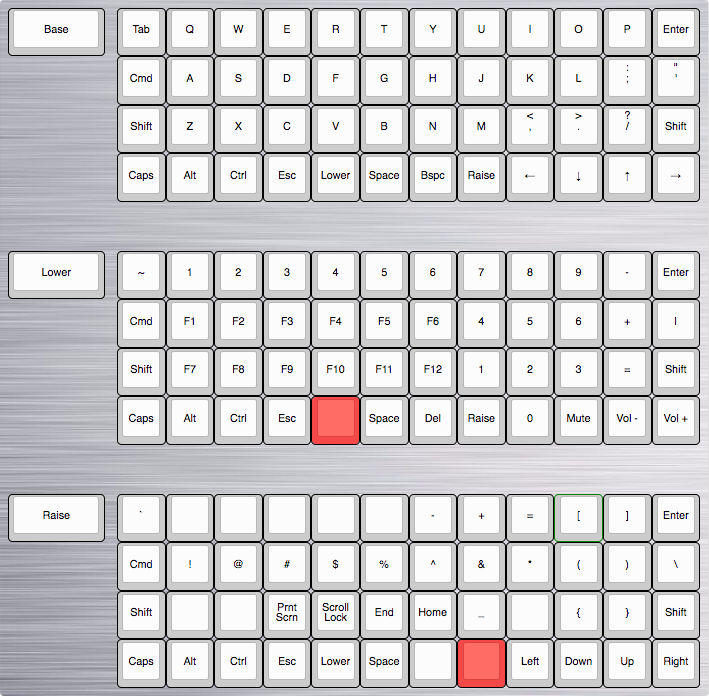
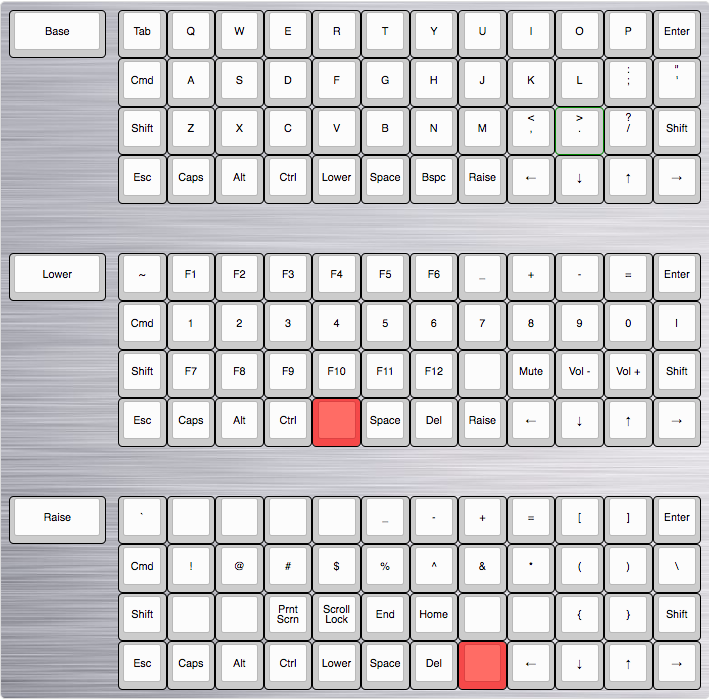
Revise Lets Split layout

diff --git a/keyboards/lets_split/keymaps/custom_mac/keymap.c b/keyboards/lets_split/keymaps/custom_mac/keymap.c
@@ -31,10 +31,10 @@ enum custom_keycodes {
 const uint16_t PROGMEM keymaps[][MATRIX_ROWS][MATRIX_COLS] = {
 
 [_QWERTY] = KEYMAP( \
-  KC_TAB,       KC_Q,    KC_W,    KC_E,    KC_R,    KC_T,    KC_Y,    KC_U,    KC_I,    KC_O,    KC_P,    KC_ENT, \
-  KC_LGUI,      KC_A,    KC_S,    KC_D,    KC_F,    KC_G,    KC_H,    KC_J,    KC_K,    KC_L,    KC_SCLN, KC_QUOT, \
-  KC_LSFT,      KC_Z,    KC_X,    KC_C,    KC_V,    KC_B,    KC_N,    KC_M,    KC_COMM, KC_DOT,  KC_SLSH, KC_RSFT , \
-  KC_CAPSLOCK,  KC_LALT, KC_LCTL, KC_ESC,  LOWER,   KC_SPC,  KC_BSPC, RAISE,   KC_LEFT, KC_DOWN, KC_UP,   KC_RGHT \
+  KC_TAB,  KC_Q,        KC_W,    KC_E,    KC_R,    KC_T,    KC_Y,    KC_U,    KC_I,    KC_O,    KC_P,    KC_ENT, \
+  KC_LGUI, KC_A,        KC_S,    KC_D,    KC_F,    KC_G,    KC_H,    KC_J,    KC_K,    KC_L,    KC_SCLN, KC_QUOT, \
+  KC_LSFT, KC_Z,        KC_X,    KC_C,    KC_V,    KC_B,    KC_N,    KC_M,    KC_COMM, KC_DOT,  KC_SLSH, KC_RSFT, \
+  KC_ESC,  KC_CAPSLOCK, KC_LALT, KC_LCTL,  LOWER,   KC_SPC,  KC_BSPC, RAISE,   KC_LEFT, KC_DOWN, KC_UP,   KC_RGHT \
 ),
 
 [_COLEMAK] = KEYMAP( \
@@ -45,24 +45,24 @@ const uint16_t PROGMEM keymaps[][MATRIX_ROWS][MATRIX_COLS] = {
 ),
 
 [_DVORAK] = KEYMAP( \
-  KC_TAB,  KC_QUOT, KC_COMM, KC_DOT,  KC_P,    KC_Y,    KC_F,    KC_G,    KC_C,    KC_R,    KC_L,    KC_BSPC, \
-  KC_ESC,  KC_A,    KC_O,    KC_E,    KC_U,    KC_I,    KC_D,    KC_H,    KC_T,    KC_N,    KC_S,    KC_SLSH, \
-  KC_LSFT, KC_SCLN, KC_Q,    KC_J,    KC_K,    KC_X,    KC_B,    KC_M,    KC_W,    KC_V,    KC_Z,    KC_ENT , \
-  ADJUST,  KC_LCTL, KC_LALT, KC_LGUI, LOWER,   KC_SPC,  KC_SPC,  RAISE,   KC_LEFT, KC_DOWN, KC_UP,   KC_RGHT \
+  KC_TAB,  KC_QUOT, KC_COMM, KC_DOT,  KC_P,  KC_Y,    KC_F,    KC_G,    KC_C,    KC_R,    KC_L,    KC_BSPC, \
+  KC_ESC,  KC_A,    KC_O,    KC_E,    KC_U,  KC_I,    KC_D,    KC_H,    KC_T,    KC_N,    KC_S,    KC_SLSH, \
+  KC_LSFT, KC_SCLN, KC_Q,    KC_J,    KC_K,  KC_X,    KC_B,    KC_M,    KC_W,    KC_V,    KC_Z,    KC_ENT, \
+  ADJUST,  KC_LCTL, KC_LALT, KC_LGUI, LOWER, KC_SPC,  KC_SPC,  RAISE,   KC_LEFT, KC_DOWN, KC_UP,   KC_RGHT \
 ),
 
 [_LOWER] = KEYMAP( \
-  KC_TILD,     KC_1,    KC_2,    KC_3,    KC_4,    KC_5,    KC_6,   KC_7,    KC_8, KC_9,    KC_MINS, KC_ENT, \
-  KC_LGUI,     KC_F1,   KC_F2,   KC_F3,   KC_F4,   KC_F5,   KC_F6,  KC_4,    KC_5, KC_6,    KC_PLUS, KC_PIPE, \
-  KC_LSFT,     KC_F7,   KC_F8,   KC_F9,   KC_F10,  KC_F11,  KC_F12, KC_1,    KC_2, KC_3,    KC_EQL,  KC_RSFT, \
-  KC_CAPSLOCK, KC_LALT, KC_LCTL, KC_ESC,  _______, KC_SPC,  KC_DEL, _______, KC_0, KC_MUTE, KC_VOLD, KC_VOLU \
+  KC_TILD, KC_F1,       KC_F2,   KC_F3,   KC_F4,    KC_F5,   KC_F6,  KC_UNDS, KC_PLUS,  KC_MINUS, KC_EQL,  KC_ENT, \
+  KC_LGUI, KC_1,        KC_2,    KC_3,    KC_4,     KC_5,    KC_6,   KC_7,    KC_8,     KC_9,     KC_0,    KC_PIPE, \
+  KC_LSFT, KC_F7,       KC_F8,   KC_F9,   KC_F10,   KC_F11,  KC_F12, _______, KC_MUTE,  KC_VOLD,  KC_VOLU, KC_RSFT, \
+  KC_ESC,  KC_CAPSLOCK, KC_LALT, KC_LCTL,  _______, KC_SPC,  KC_DEL, _______, KC_LEFT,  KC_DOWN,  KC_UP,   KC_RGHT \
 ),
 
 [_RAISE] = KEYMAP( \
-  KC_GRV,       _______, _______, _______,    _______,  KC_UNDS, KC_MINUS, KC_PLUS, KC_EQUAL, KC_LBRC, KC_RBRC, KC_ENT, \
-  KC_LGUI,      KC_EXLM, KC_AT,   KC_HASH,    KC_DLR,   KC_PERC, KC_CIRC,  KC_AMPR, KC_ASTR,  KC_LPRN, KC_RPRN, KC_BSLASH, \
-  KC_LSFT,      _______, _______, KC_PSCREEN, KC_SLCK,  KC_END,  KC_HOME,  _______, _______,  KC_LCBR, KC_RCBR, KC_RSFT, \
-  KC_CAPSLOCK,  KC_LALT, KC_LCTL, KC_ESC,     _______,  KC_SPC,  KC_DEL,   _______, KC_LEFT,  KC_DOWN, KC_UP,   KC_RGHT \
+  KC_GRV,  _______,     _______, _______,    _______,  KC_UNDS, KC_MINUS, KC_PLUS, KC_EQUAL, KC_LBRC, KC_RBRC, KC_ENT, \
+  KC_LGUI, KC_EXLM,     KC_AT,   KC_HASH,    KC_DLR,   KC_PERC, KC_CIRC,  KC_AMPR, KC_ASTR,  KC_LPRN, KC_RPRN, KC_BSLASH, \
+  KC_LSFT, _______,     _______, KC_PSCREEN, KC_SLCK,  KC_END,  KC_HOME,  _______, _______,  KC_LCBR, KC_RCBR, KC_RSFT, \
+  KC_ESC,  KC_CAPSLOCK, KC_LALT, KC_LCTL,    _______,  KC_SPC,  KC_DEL,   _______, KC_LEFT,  KC_DOWN, KC_UP,   KC_RGHT \
 ),
 
 [_ADJUST] =  KEYMAP( \

diff --git a/keyboards/lets_split/readme.md b/keyboards/lets_split/readme.md
@@ -16,7 +16,7 @@ Create the hex file that you will flash onto the Arduino:
 This can now be found in qmk_firmware/.build/
 
 Next, we will run a script to find the serial port and then flash the firmware. Make sure that it is executable by running:
-`chmod 700 flash.sh`
+`chmod +x flash.sh`
 
 In your terminal type `./flash.sh ../../.build/lets_split_rev2_custom_mac.hex` but **do not run it yet.**
 
